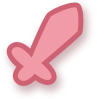
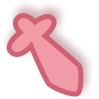
Añadidos Iconos de Combate y Misión Barca

diff --git a/src/systems/render_system.cpp b/src/systems/render_system.cpp
@@ -692,7 +692,7 @@ void RenderSystem::drawEntities(EntityManager& em, GameEngine& engine)
                     pos.setY(pos.y() - r.offset / 1.5);
                     in = true;
                 }
-                else if (e.hasTag<NomadTag>())
+                else if (e.hasTag<NomadTag>() || e.hasTag<InvestigatorTag>())
                 {
                     pos.setY(pos.y() - 3.54);
                     in = true;
@@ -1679,6 +1679,11 @@ void RenderSystem::drawHUD(EntityManager& em, GameEngine& engine, bool debugphy)
 
             drawAnimatedTextures(engine);
 
+            if (li.mapID == 2 && li.volcanoMission)
+            {
+                drawBoatParts(engine, em);
+            }
+
             // Dibujar el tipo de ataque que tiene equipado
             if (e.hasComponent<TypeComponent>())
             {
@@ -1924,20 +1929,46 @@ void RenderSystem::drawHUD(EntityManager& em, GameEngine& engine, bool debugphy)
 
                 if (e.hasTag<DoorTag>())
                 {
-                    auto& candado = engine.textures["candado_abierto"];
-                    engine.drawTexture(candado,
-                        static_cast<int>(engine.getWorldToScreenX(pos) - static_cast<float>(candado.width / 2)),
+                    auto& lock = engine.textures["candado_abierto"];
+                    engine.drawTexture(lock,
+                        static_cast<int>(engine.getWorldToScreenX(pos) - static_cast<float>(lock.width / 2)),
                         static_cast<int>(engine.getWorldToScreenY(pos) - sclY * 13),
                         { 255, 255, 255, 255 });
                 }
             }
             else if (inter.showLock)
             {
-                auto& candado = engine.textures["candado_cerrado"];
-                engine.drawTexture(candado,
-                    static_cast<int>(engine.getWorldToScreenX(pos) - static_cast<float>(candado.width / 2)),
+                auto& lock = engine.textures["candado_cerrado"];
+                engine.drawTexture(lock,
+                    static_cast<int>(engine.getWorldToScreenX(pos) - static_cast<float>(lock.width / 2)),
                     static_cast<int>(engine.getWorldToScreenY(pos) - sclY * 13),
                     { 255, 255, 255, 255 });
+
+                if (e.hasTag<ChestTag>())
+                {
+                    auto& swordText = engine.textures["batalla"];
+                    engine.drawTexture(swordText,
+                        static_cast<int>(engine.getWorldToScreenX(pos) - static_cast<float>(swordText.width / 2)),
+                        static_cast<int>(engine.getWorldToScreenY(pos) - sclY * 13),
+                        { 255, 255, 255, 255 });
+
+                    auto& ch = em.getComponent<ChestComponent>(e);
+                    if (ch.closeEnemies > 0)
+                    {
+                        // Dibujamos el número de partes de barco encontradas
+                        auto& textureNum = engine.textures.at(std::to_string(ch.closeEnemies));
+                        auto& textureMax = engine.textures.at(std::to_string(ch.maxEnemies));
+                        auto& textureBar = engine.textures.at("barra");
+
+                        auto posX = static_cast<int>(engine.getWorldToScreenX(pos) - static_cast<float>(textureNum.width / 2) - 100);
+                        auto posY = static_cast<int>(engine.getWorldToScreenY(pos) - sclY * 12);
+
+                        // Dibujamos el num / 4
+                        engine.drawTexture(textureNum, posX, posY, { 255, 255, 255, 255 });
+                        engine.drawTexture(textureBar, posX + textureNum.width / 3, posY, { 255, 255, 255, 255 });
+                        engine.drawTexture(textureMax, posX + textureNum.width / 2 + textureBar.width / 2, posY + 20, { 255, 255, 255, 255 });
+                    }
+                }
             }
 
             if (e.hasTag<ChestTag>() && li.enemyToChestPos != vec3d::zero() && !li.playerDetected)
@@ -1950,9 +1981,9 @@ void RenderSystem::drawHUD(EntityManager& em, GameEngine& engine, bool debugphy)
                     {
                         if (elapsed_Lock < elapsed_limit_Lock)
                         {
-                            auto& candado = engine.textures["candado_abierto"];
-                            engine.drawTexture(candado,
-                                static_cast<int>(engine.getWorldToScreenX(pos) - static_cast<float>(candado.width / 2)),
+                            auto& openLock = engine.textures["candado_abierto"];
+                            engine.drawTexture(openLock,
+                                static_cast<int>(engine.getWorldToScreenX(pos) - static_cast<float>(openLock.width / 2)),
                                 static_cast<int>(engine.getWorldToScreenY(pos) - sclY * 9),
                                 { 255, 255, 255, 255 });
 
@@ -2686,4 +2717,38 @@ void RenderSystem::drawFPSCounter(GameEngine& engine)
     // Dibuja el FPS
     std::string fpsStr = "FPS: " + std::to_string(fps);
     engine.drawText(fpsStr.c_str(), engine.getScreenWidth() - 100, 10, 20, RED);
+}
+
+void RenderSystem::drawBoatParts(GameEngine& ge, EntityManager& em)
+{
+    auto& plfi = em.getSingleton<PlayerInfo>();
+
+    if (elapsed_boat < elapsed_limit_boat)
+    {
+        elapsed_boat += timeStep;
+        if (elapsed_boat > elapsed_limit_boat) elapsed_boat = elapsed_limit_boat;
+    }
+
+    // Dibujamos la textura de la barra que sale desde la derecha
+    auto& barca = ge.textures["barco"];
+
+    // Calculamos la posición inicial y final de la barra
+    int initialPosX = ge.getScreenWidth();
+    int finalPosX = ge.getScreenWidth() - barca.width;
+
+    // Interpolamos la posición X
+    int posX = initialPosX - static_cast<int>(static_cast<float>(initialPosX - finalPosX) * elapsed_boat);
+
+    // Dibujamos la barra
+    ge.drawTexture(barca, posX, ge.getScreenHeight() / 6, { 255, 255, 255, 255 });
+
+    // Dibujamos el número de partes de barco encontradas
+    auto& textureNum = ge.textures.at(std::to_string(plfi.boatParts.size()));
+    auto& texture4 = ge.textures.at("4");
+    auto& textureBar = ge.textures.at("barra");
+
+    // Dibujamos el num / 4
+    ge.drawTexture(textureNum, posX + 115, ge.getScreenHeight() / 6 + 2, { 255, 255, 255, 255 });
+    ge.drawTexture(textureBar, posX + 100 + textureNum.width / 2, ge.getScreenHeight() / 6 + 2, { 255, 255, 255, 255 });
+    ge.drawTexture(texture4, posX + 105 + textureNum.width / 2 + textureBar.width / 2, ge.getScreenHeight() / 6 + 20, { 255, 255, 255, 255 });
 }

diff --git a/src/managers/event_manager.hpp b/src/managers/event_manager.hpp
@@ -24,12 +24,12 @@ enum EventCodes : uint16_t
     DialogPrisonNomad2,
     DialogFirstSpawn,
     ViewPointDoor,
-    ViewPointNPCPrison,
     BoatPartFound,
     BoatDialog,
-    ViewPointNomadVolcano,
-    DialogNomadVolcano,
+    DialogNomadVolcano1,
     DialogNomadVolcano2,
+    DialogCatVolcano1,
+    InitBoatParts,
     MAX
 };
 
@@ -166,22 +166,6 @@ public:
                     {
                         auto& li = em.getSingleton<LevelInfo>();
                         li.viewPoint = { 15.153, 18.593, 85.767 };
-                        li.viewPointSound = true;
-                        break;
-                    }
-                    case EventCodes::ViewPointNPCPrison:
-                    {
-                        auto& li = em.getSingleton<LevelInfo>();
-                        li.viewPoint = { -23.08, 4.0, 244.7 };
-                        li.events.insert(EventCodes::NPCDialog);
-                        li.viewPointSound = true;
-                        break;
-                    }
-                    case EventCodes::ViewPointNomadVolcano:
-                    {
-                        auto& li = em.getSingleton<LevelInfo>();
-                        li.viewPoint = { 40.0, 50.0, -33.0 };
-                        li.events.insert(EventCodes::NPCDialog);
                         li.viewPointSound = true;
                         break;
                     }
@@ -326,7 +310,7 @@ public:
                         playerPhy.notMove = false;
                         break;
                     }
-                    case EventCodes::DialogNomadVolcano:
+                    case EventCodes::DialogNomadVolcano1:
                     {
                         auto& txti = em.getSingleton<TextInfo>();
                         std::array<std::string, 3> msgs =
@@ -367,6 +351,41 @@ public:
 
                         auto& playerPhy = em.getComponent<PhysicsComponent>(*em.getEntityByID(li.playerID));
                         playerPhy.notMove = false;
+                        break;
+                    }
+                    case EventCodes::DialogCatVolcano1:
+                    {
+                        auto& txti = em.getSingleton<TextInfo>();
+
+                        std::array<std::string, 12> msgs =
+                        {
+                            "Gato: \n¡Miau! ¡Miau! ¡Miau!",
+                            "Mago: \n¿Qué dices? ¿Qué quieres decirme?",
+                            "Gato: \n¿Acaso no hablas gatuno? Qué falta de respeto",
+                            "Mago: \nLo siento, le pediré a mi maestro que me lo enseñe.",
+                            "Gato: \nNo te preocupes niño, si me estaba quedando contigo. \nSoy un investigador",
+                            "Mago: \n¡Ah vale! Oye, ¿sabes cómo salir de aquí? \nTengo que encontrar a mi maestro.",
+                            "Investigador: \nNo eres el único que quiere salir de aquí, \npero igual deberías preocuparte más por el volcán \n a punto de estallar que de tu maestro.",
+                            "Mago: \n¿¡Quéeeee!? ¡¿Estallar!? ¡¿Cómo?!",
+                            "Investigador: \nAsí es, pero no te alarmes, porque me vas a ayudar a \nreconstruir mi barca para salir de aquí.",
+                            "Mago: \n¿Una barca?",
+                            "Investigador: \nEfectivamente, los monstruos me desperdigaron \nlas piezas por todo el lugar, ayúdame a recuperarlas\ny saldremos de aquí antes de la explosión.",
+                            "Mago: \n¡Entiendo, déjalo en mis manos!"
+                        };
+
+                        // Metemos el texto en el stack de texto
+                        for (std::size_t i = 0; i < msgs.size(); i++)
+                            txti.addText(msgs[i]);
+
+                        scheduleEvent(Event{ EventCodes::InitBoatParts });
+                        out = true;
+                        break;
+                    }
+                    case EventCodes::InitBoatParts:
+                    {
+                        // Ponemos a true la variable de enseñar número las piezas de barco
+                        auto& li = em.getSingleton<LevelInfo>();
+                        li.volcanoMission = true;
                         break;
                     }
                     default:

diff --git a/src/systems/zone_system.cpp b/src/systems/zone_system.cpp
@@ -133,33 +133,35 @@ void ZoneSystem::checkChests(EntityManager& em, EventManager& evm)
 
             double distance = playerPos.distance(phy.position);
             double range = ic.range;
-            bool crusherClose = false;
 
-            if (ch.checkCrushers)
+            // if (ch.checkCrushers)
+            // {
+            using crusherCMP = MP::TypeList<PhysicsComponent>;
+            using crusherTag = MP::TypeList<EnemyTag>;
+
+            ch.closeEnemies = 0;
+            em.forEach<crusherCMP, crusherTag>([&](Entity& e, PhysicsComponent& phyC)
             {
-                using crusherCMP = MP::TypeList<PhysicsComponent>;
-                using crusherTag = MP::TypeList<CrusherTag>;
-
-                em.forEach<crusherCMP, crusherTag>([&](Entity&, PhysicsComponent& phyC)
+                if (e.hasTag<AngryBushTag>() || e.hasTag<DummyTag>())
+                    return;
+                if (phy.position.distance(phyC.position) < 50.0)
                 {
-                    if (phy.position.distance(phyC.position) < 50.0)
-                    {
-                        crusherClose = true;
-                    }
+                    ch.closeEnemies += 1;
+                }
+            });
 
-                    if (crusherClose)
-                        return;
-                });
-            }
+            if (ch.closeEnemies > ch.maxEnemies)
+                ch.maxEnemies = ch.closeEnemies;
+            // }
 
             // Si el cofre se encuentra a menos de 2 unidades de distancia del se muestra el mensaje de abrir cofre
-            if (distance < range && !ch.isOpen && !ic.showButton && !li.playerDetected && !crusherClose)
+            if (distance < range && !ch.isOpen && !ic.showButton && !li.playerDetected && ch.closeEnemies == 0)
                 ic.showButton = true;
 
             else if ((distance > range && ic.showButton) || li.playerDetected)
                 ic.showButton = false;
 
-            if (distance < range && !ic.showButton && (li.playerDetected || crusherClose))
+            if (distance < range && !ic.showButton && (li.playerDetected || ch.closeEnemies > 0))
                 ic.showLock = true;
 
             else if ((distance > range && ic.showLock) || !li.playerDetected)
@@ -428,7 +430,7 @@ void ZoneSystem::checkMissionObjs(EntityManager& em, EventManager& evm)
     });
 }
 
-void ZoneSystem::checkNPCs(EntityManager& em, EventManager& evm)
+void ZoneSystem::checkNPCs(EntityManager& em, EventManager&)
 {
     auto& li = em.getSingleton<LevelInfo>();
     auto& playerEnt = *em.getEntityByID(li.playerID);
@@ -458,8 +460,10 @@ void ZoneSystem::checkNPCs(EntityManager& em, EventManager& evm)
             playerPhy.moveAt(phy.position);
             phy.lookAt(playerPhy.position);
 
-            if (dc.eventCodes.size() > 0)
-                evm.scheduleEvent({ static_cast<EventCodes>(dc.eventCodes[0]) });
+            li.viewPoint = phy.position;
+            li.events.insert(dc.eventCodes.begin(), dc.eventCodes.end());
+            // if (dc.eventCodes.size() > 0)
+            //     evm.scheduleEvent({ static_cast<EventCodes>(dc.eventCodes[0]) });
         }
     });
 }

diff --git a/src/managers/game_engine.cpp b/src/managers/game_engine.cpp
@@ -65,9 +65,17 @@ ENGI::GameEngine::GameEngine(u16 const width, u16 const height)
 
     // Libro para enseñar hechizos HUD
     loadAndResizeImage("libro", "assets/HUD/Libro.png");
-    //Load detection icon
+
+    // Icono de detección HUD
     loadAndResizeImage("detectionicon", "assets/HUD/detectionicon.png");
-    // NÚMEROS
+
+    // Barco para el nivel del volcán HUD
+    loadAndResizeImage("barco", "assets/HUD/barco_piezas.png");
+
+    // Icono Batalla HUD
+    loadAndResizeImage("batalla", "assets/HUD/batalla.png");
+
+    // NÚMEROS Y SÍMBOLOS NUMÉRICOS
     //
     loadAndResizeImage("0", "assets/HUD/numeros/0.png");
     loadAndResizeImage("1", "assets/HUD/numeros/1.png");
@@ -79,6 +87,9 @@ ENGI::GameEngine::GameEngine(u16 const width, u16 const height)
     loadAndResizeImage("7", "assets/HUD/numeros/7.png");
     loadAndResizeImage("8", "assets/HUD/numeros/8.png");
     loadAndResizeImage("9", "assets/HUD/numeros/9.png");
+    loadAndResizeImage("+", "assets/HUD/numeros/mas.png");
+    loadAndResizeImage("-", "assets/HUD/numeros/-.png");
+    loadAndResizeImage("barra", "assets/HUD/barra.png");
 
     // GIFS
     //

diff --git a/src/managers/map_manager.cpp b/src/managers/map_manager.cpp
@@ -392,7 +392,7 @@ void MapManager::generateInteractables(EntityManager& em, const valueType& inter
 
             ic.range = 7.5;
             em.addComponent<OneUseComponent>(entity, OneUseComponent{ .id = unique_ids++ });
-            [[maybe_unused]] auto& cc = em.addComponent<ChestComponent>(entity, ChestComponent{ .dropPosition = { vec3d::zero() }, .content = content });
+            [[maybe_unused]] auto& cc = em.addComponent<ChestComponent>(entity, ChestComponent{ .content = content });
 
             if (interactable.HasMember("offsetZ"))
             {
@@ -625,7 +625,7 @@ void MapManager::generateNPCs(EntityManager& em, const valueType& npcArray)
             break;
         case 1:
             em.addTag<InvestigatorTag>(entity);
-            range = 7.5;
+            range = 18.0;
             break;
         default:
             break;

diff --git a/src/systems/render_system.hpp b/src/systems/render_system.hpp
@@ -61,6 +61,7 @@ private:
     void drawSpellSlots(GameEngine& engine, EntityManager& em);
     void drawSpellExp(GameEngine& engine, std::string name);
     void drawStaff(GameEngine& engine, EntityManager& em);
+    void drawBoatParts(GameEngine& engine, EntityManager& em);
     void drawAnimatedTextures(GameEngine& engine);
     void drawAlerts_IA(EntityManager& em, GameEngine& engine);
     void drawFPSCounter(GameEngine& engine);
@@ -83,6 +84,7 @@ private:
     float elapsed_CoinBar{ 0.0f }, elapsed_limit_CoinBar{ 5.0f };
     float elapsed_Lock{ 0.0f }, elapsed_limit_Lock{ 5.0f };
     float elapsed_spell{ 0.0f }, elapsed_limit_spell{ 5.0f };
+    float elapsed_boat{ 0.0f }, elapsed_limit_boat{ 1.0f };
     float elapsed_book{ 0.0f };
 
     int coinBarX{}, coinNumberX{};

diff --git a/src/managers/game.cpp b/src/managers/game.cpp
@@ -40,7 +40,7 @@ void Game::createEntities()
 {
     auto& plfi = em.getSingleton<PlayerInfo>();
     if (plfi.spawnPoint == vec3d::zero())
-        plfi.spawnPoint = {-95.0, 22.0, -135.0 };
+        plfi.spawnPoint = { 34.0, 29.0, -60.0 };
 
     // 33.0, 4.0, -25.9 - Posición Incial
     // 32.0, 4.0, 43.0 - Primer cofre

diff --git a/src/systems/camera_system.cpp b/src/systems/camera_system.cpp
@@ -98,6 +98,8 @@ void CameraSystem::update(EntityManager& em, GameEngine& ge, EventManager& evm)
                 {
                     for (auto& e : li.events)
                         evm.scheduleEvent(Event{ static_cast<EventCodes>(e) });
+
+                    li.events.clear();
                 }
             }
 

diff --git a/src/components/chest_component.hpp b/src/components/chest_component.hpp
@@ -1,11 +1,10 @@
 #pragma once
 #include "object_component.hpp"
-#include <queue>
 
 struct ChestComponent
 {
     bool isOpen{ false }, checkCrushers{ false };
 
-    vec3d dropPosition{};
     ObjectType content{ ObjectType::None };
+    uint8_t closeEnemies{}, maxEnemies{};
 };

diff --git a/src/utils/sngtn/level_info.hpp b/src/utils/sngtn/level_info.hpp
@@ -94,6 +94,9 @@ struct LevelInfo
     // Replay de inputs
     bool replay{ false };
 
+    // Misiones
+    bool volcanoMission{ false };
+
     // Estado del juego
     GameScreen currentScreen = GameScreen::GAMEPLAY;
     GameScreen previousScreen = GameScreen::LOGO;
